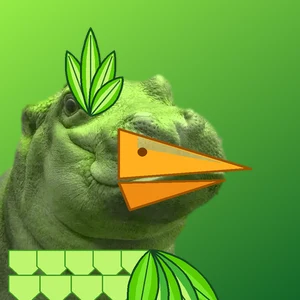
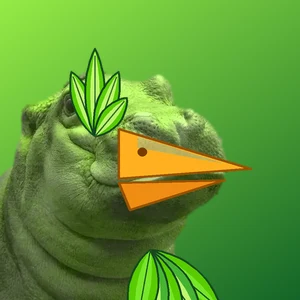
Skins Passaro (sem penas da barriga e sem pes) e Colecionador (chapeu na cabeca)
Claude-Session: https://claude.ai/code/session_01LkoixJGtWMpdtiG3Wug6MQ

Changed region(s): [[0.0, 0.81, 0.48, 1.0], [0.21, 0.09, 0.45, 0.48]]

diff --git a/sw.js b/sw.js
@@ -1,6 +1,6 @@
 /* Jogos Enzola — service worker: abre rápido, funciona com internet ruim e recebe notificações no celular.
    Só guarda os arquivos do próprio site; dados do Supabase e preços sempre vêm da rede. */
-const CACHE = "jogos-enzola-v3-38";
+const CACHE = "jogos-enzola-v3-39";
 const SHELL = ["./", "index.html", "styles.css", "app.js", "jogo.js", "social.js", "lingo.js", "loja.js","album.js","show.js","home.js", "extras.js", "config.js", "logo.png", "hipopotamo.webp", "manifest.webmanifest",
   "icons/icon-192.png", "icons/icon-512.png", "icons/favicon.png", "icons/notif.png", "icons/badge.png"];
 self.addEventListener("install", e => { e.waitUntil(caches.open(CACHE).then(c => c.addAll(SHELL)).then(() => self.skipWaiting())) });
